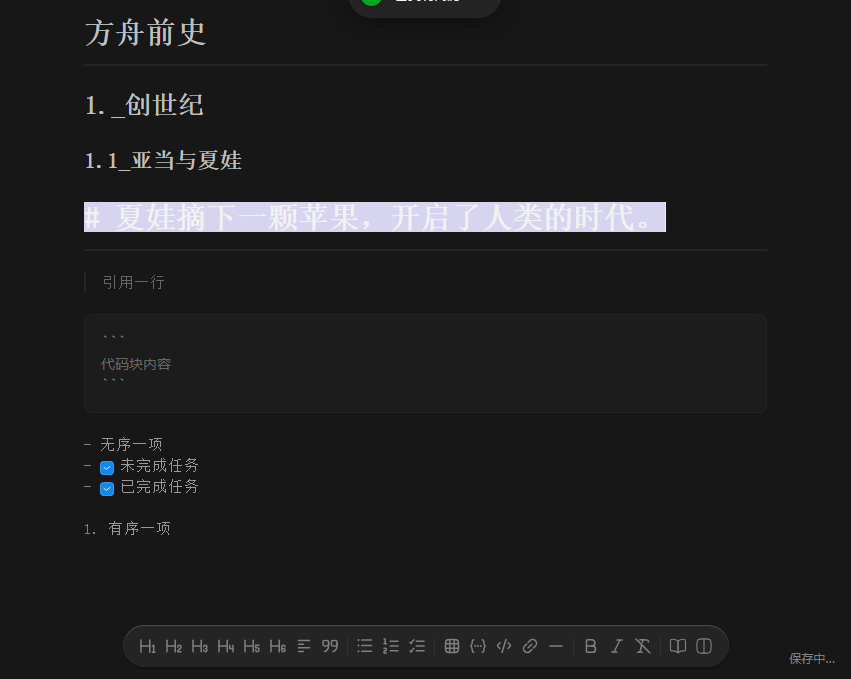
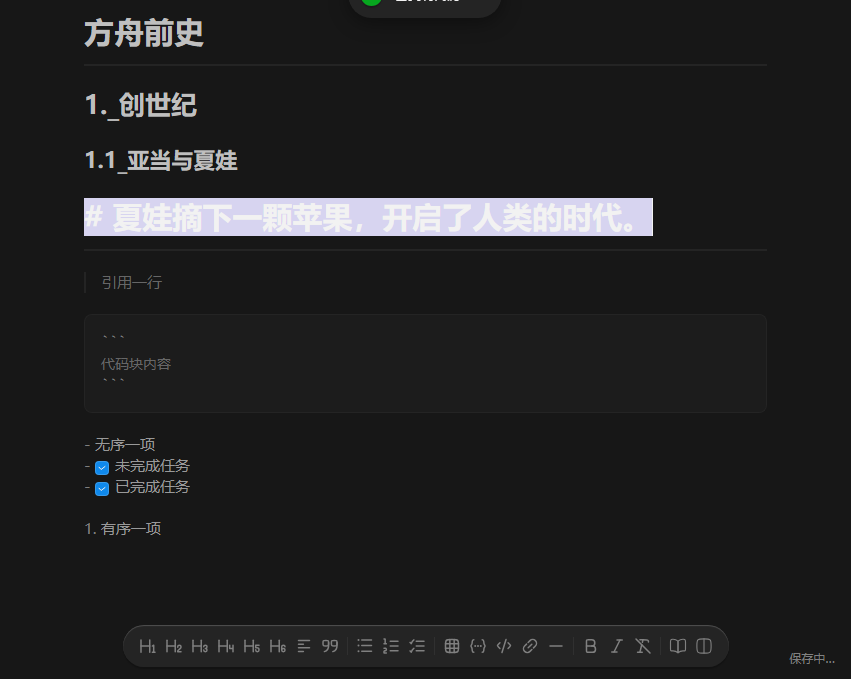
fix(文本): md 编辑器走查修复——文末抬高余量 + 宋体根治 + linkLock 墙钟化
①文末输入贴底：编辑态 .cm-content 底 padding 66 → calc(66px + 50vh)，末行可抬至视口中部（Obsidian
typewriter 同思路，预览态不动）；②编辑态中文宋体：CM6 base theme 对 .cm-content 直属 font-family:
monospace 截断继承链，字体声明挪 .cm-editor .cm-content 特异性 (0,2,0) 压回雅黑；③分屏联动长锁根治：
linkLock 计数 + 定时器解锁在 headless 节流环境冻死（解锁回调迟数秒），改墙钟截止时刻
（performance.now()+100，零回调依赖）——踩坑 109 扩记，速查 §69 补三条；探针三连修收敛判定
（轮询右栏滚到底的确定性效应），17 段连续两轮 PASS；typecheck 0 错

diff --git a/src/components/PreviewText.vue b/src/components/PreviewText.vue
@@ -237,11 +237,13 @@ function onCmKeydownGuard(e: KeyboardEvent): void {
 // 输入 / 光标移动 = typewriter 跟进：光标行对应渲染块滚到视口中间（用户「书写常在最下面，
 // 预览最后一行固定中间」），16ms 定时器合一（rAF 弃用——headless 按需出帧模式下帧生产停摆时回调永不达，
 // 2026-10-10 踩坑），精调期间 linkLock 锁反向回写不拽左栏。
-let linkLock = 0;
+// linkLock = 墙钟截止时刻（不用计数 + 定时器解锁——headless 定时器节流会让解锁回调迟数秒，
+// 锁长期卡死联动全瘫，同日实锤；墙钟到点自然失效，零回调依赖）
+let linkLockUntil = 0;
 let splitScrollRaf = 0; // setTimeout 句柄（历史名留 raf；16ms 合一节流）
 
 function linkScroll(src: HTMLElement, dst: HTMLElement): void {
-  if (linkLock > 0) return;
+  if (performance.now() < linkLockUntil) return;
   const sMax = src.scrollHeight - src.clientHeight;
   const dMax = dst.scrollHeight - dst.clientHeight;
   if (sMax <= 0 || dMax <= 0) return;
@@ -280,14 +282,10 @@ function scheduleSplitScroll(): void {
       else break;
     }
     if (!target) return;
-    linkLock++;
+    linkLockUntil = performance.now() + 100; // 墙钟锁 100ms：盖住本写入引发的异步 scroll 事件回环
     const bRect = body.getBoundingClientRect();
     const tRect = target.getBoundingClientRect();
     body.scrollTop += tRect.top - bRect.top - (bRect.height - tRect.height) / 2;
-    // scroll 事件异步派发窗口留 60ms 再解锁（反向回写不拽左栏；原双 rAF 解锁同因饿死弃用）
-    window.setTimeout(() => {
-      linkLock--;
-    }, 60);
   }, 16);
 }
 
@@ -505,7 +503,7 @@ watch(
    半宽沿用太奢）；分割条 = 1px 通用/三级线 + 左右 2px 命中扩边，hover / 拖拽 = 品牌色
    （全 app 拖拽线同色系口径：插入提示 / 框选 §22） */
 .md-edit-wrap.split .cm-host :deep(.cm-content) {
-  padding: var(--n-space-12) var(--n-space-24) 66px;
+  padding: var(--n-space-12) var(--n-space-24) calc(66px + 50vh);
 }
 .md-split-bar {
   flex: none;

diff --git a/src/styles/cm-md.css b/src/styles/cm-md.css
@@ -5,15 +5,19 @@
    块距 = md 空行自然撑开（编辑器无渲染态 flex gap 12）；表格 / Setext 标题保源码态待另轮。
    色档 = 1.5（标题 75 / 正文 60 / 其他 40；标记回落亮色/三级），线 = 通用/三级。 */
 
-/* —— 基底：版心左右各 84（12+72，渲染态同口径）+ 底 66 让位悬浮栏（§18 遮挡补偿） —— */
+/* —— 基底：版心左右各 84（12+72，渲染态同口径）+ 底 66 让位悬浮栏（§18 遮挡补偿）
+   + 50vh 文末抬高余量（2026-10-10 用户定：写到文末眼睛不盯最底行——滚动余量放大半屏，
+   末行可抬至视口中部，Obsidian typewriter 同思路；预览态阅读不需要，仅编辑态供给）。
+   字体必须打在 .cm-content 上（(0,2,0) 压 CM6 base theme 的 .cm-content font-family: monospace——
+   打 .cm-editor 会被直属规则截断继承，中文落 monospace=宋体，2026-10-10 用户实机报修） —— */
 .cm-editor {
-  font-family: var(--n-font-family);
   font-size: var(--n-fs-md-body);
   line-height: var(--n-lh-md-body);
   color: var(--n-md-body);
 }
 .cm-editor .cm-content {
-  padding: var(--n-space-12) calc(var(--n-space-12) + var(--n-space-72)) 66px;
+  padding: var(--n-space-12) calc(var(--n-space-12) + var(--n-space-72)) calc(66px + 50vh);
+  font-family: var(--n-font-family);
   caret-color: var(--n-l1);
 }
 .cm-editor .cm-line {

diff --git a/tools/cdp-md-editor-probe.py b/tools/cdp-md-editor-probe.py
@@ -517,14 +517,20 @@ async def main():
             if not (0.25 <= o2n <= 0.75) or abs(o2n - 0.5) < 0.01:
                 fails.append(f"[O] 分割条拖动未改占比（{o2}）")
             # 滚动联动（单滚轮语义）：先填充 30 个独立段落撑出两侧滚动空间（桩文档 19 行不足以滚；
-            # 单换行会被 md 折叠成一段）——填充后光标归文档首行再等 1.2s 让 typewriter 定时器收敛
-            #（headless 定时器节流，迟到的「跟滚到光标行」会篡改联动断言现场），再左栏滚到 1/2 → 右栏按比例跟；右栏回 0 → 左栏跟回
+            # 单换行会被 md 折叠成一段）——填充后**轮询右栏滚到底确认跟滚定时器已跑完**
+            #（光标恒在文末 = 跟滚目标即底部，到底只有定时器能写、观测无歧义；归 0 轮询撞「本来就 0」、
+            # 稳定窗轮询撞「节流冻结超窗」两版假收敛均已实锤，2026-10-10 三连），再左栏滚到 1/2 → 右栏按比例跟；右栏回 0 → 左栏跟回
             await type_text("\n\n" + "填充滚动行\n\n" * 30)
-            await ev("""(() => {
-              const v = document.querySelector('.text-preview .cm-host').__cmView;
-              v.dispatch({ selection: { anchor: 0 } });
-            })()""")
-            await asyncio.sleep(1.2)
+            for _ in range(40):  # 最长 10s（headless 定时器节流 ~1s 粒度）
+                await asyncio.sleep(0.25)
+                settled = await ev("""(() => {
+                  const body = document.querySelector('.md-body.split-side');
+                  const max = body.scrollHeight - body.clientHeight;
+                  return max > 0 && body.scrollTop >= max - 2;
+                })()""")
+                if settled:
+                    break
+            await asyncio.sleep(0.3)  # 余量：linkLock 60ms 解锁落定
             await ev("""(() => {
               const sc = document.querySelector('.md-edit-wrap .cm-scroller');
               sc.scrollTop = (sc.scrollHeight - sc.clientHeight) / 2;
@@ -558,26 +564,30 @@ async def main():
                 fails.append(f"[O] 分屏右栏未实时渲染（{o3}，期望存在 RRR strong）")
             # typewriter 跟滚：光标移到第 49 行（填充块群中部，居中可达——文档头尾块受滚动钳制
             # 物理上居不了中）→ 右栏滚到对应块并固定视口中间（CM6 选区 dispatch → updateListener 自动触发跟滚；
-            # 16ms 定时器 + headless 后台定时器节流，收敛等待放宽 1.2s）
+            # 16ms 定时器 + headless 后台定时器节流窗口不定——轮询 centerOff 收敛代替固定 sleep）
             o3b0 = await ev("document.querySelector('.md-body.split-side').scrollTop")
             await ev("""(() => {
               const v = document.querySelector('.text-preview .cm-host').__cmView;
               const pos = v.state.doc.line(50).from + 1;
               v.dispatch({ selection: { anchor: pos } });
             })()""")
-            await asyncio.sleep(1.2)
-            o3b = await ev("""(() => {
-              const body = document.querySelector('.md-body.split-side');
-              const blocks = [...body.querySelectorAll('[data-line-start]')];
-              const v = document.querySelector('.text-preview .cm-host').__cmView;
-              const line = v.state.doc.lineAt(v.state.selection.main.head).number - 1;
-              let t = null;
-              for (const el of blocks) { if (Number(el.dataset.lineStart) <= line) t = el; else break; }
-              if (!t) return { scroll: body.scrollTop, hit: false };
-              const bR = body.getBoundingClientRect(), tR = t.getBoundingClientRect();
-              return { scroll: body.scrollTop, hit: true,
-                       centerOff: Math.abs(tR.top + tR.height / 2 - (bR.top + bR.height / 2)) };
-            })()""")
+            o3b = None
+            for _ in range(20):
+                await asyncio.sleep(0.1)
+                o3b = await ev("""(() => {
+                  const body = document.querySelector('.md-body.split-side');
+                  const blocks = [...body.querySelectorAll('[data-line-start]')];
+                  const v = document.querySelector('.text-preview .cm-host').__cmView;
+                  const line = v.state.doc.lineAt(v.state.selection.main.head).number - 1;
+                  let t = null;
+                  for (const el of blocks) { if (Number(el.dataset.lineStart) <= line) t = el; else break; }
+                  if (!t) return { scroll: body.scrollTop, hit: false };
+                  const bR = body.getBoundingClientRect(), tR = t.getBoundingClientRect();
+                  return { scroll: body.scrollTop, hit: true,
+                           centerOff: Math.abs(tR.top + tR.height / 2 - (bR.top + bR.height / 2)) };
+                })()""")
+                if o3b and o3b.get("hit") and o3b["centerOff"] <= 40:
+                    break
             print("[O3b typewriter]", json.dumps({"滚前": o3b0, **(o3b or {})}, ensure_ascii=False))
             if not o3b or not o3b["hit"]:
                 fails.append(f"[O] typewriter 未命中光标行块（{o3b}）")

diff --git a/docs/02_开发日志/2026-10/Index.md b/docs/02_开发日志/2026-10/Index.md
@@ -2,7 +2,7 @@
 
 > 本月 85 个任务文件（命名 `YYYY-MM-DD[_NN]_标题.md`）。总目录见 [Index](../../Index.md）。
 
-- **2026-10-10**：[01_md 编辑器 CM6 换代 · Live Preview（用户提「Obsidian 式所见所得是否可行」——路线 A 定案落地，PRD 04-04 条 6「不引入所见即所得」作废：编辑态 textarea → CodeMirror 6，光标外行内联渲染 / 光标行回落源码；撤销换 CM6 原生事务栈（mdHistory 删除）；装饰层 = lib/cmMd.ts + styles/cm-md.css 同稿 token；保存 / 19 工具栏动作 / 粘贴补全 / 滚动保活 / 分屏 typewriter 全平移；typecheck 0 错 + build 绿 + 探针 17 段全 PASS（新增 P 段装饰层验收）；踩坑 109 新立（headless rAF 停摆 → 合一改定时器）；待实机走查编辑态手感 / 色档微调另轮 / 表格与 Setext 待另轮；PRD 04-04、速查 §69 同步）](2026-10-10_01_md编辑器CM6换代LivePreview.md)
+- **2026-10-10**：[01_md 编辑器 CM6 换代 · Live Preview（用户提「Obsidian 式所见所得是否可行」——路线 A 定案落地，PRD 04-04 条 6「不引入所见即所得」作废：编辑态 textarea → CodeMirror 6，光标外行内联渲染 / 光标行回落源码；撤销换 CM6 原生事务栈（mdHistory 删除）；装饰层 = lib/cmMd.ts + styles/cm-md.css 同稿 token；保存 / 19 工具栏动作 / 粘贴补全 / 滚动保活 / 分屏 typewriter 全平移；typecheck 0 错 + build 绿 + 探针 17 段全 PASS（新增 P 段装饰层验收）；踩坑 109 新立（headless rAF 停摆 → 合一改定时器）；待实机走查编辑态手感 / 色档微调另轮 / 表格与 Setext 待另轮；PRD 04-04、速查 §69 同步）](2026-10-10_01_md编辑器CM6换代LivePreview.md) · [02_实机走查修复（两报一轮——文末输入贴底：编辑态底 padding 66 → 66+50vh 半屏滚动余量，末行可抬至视口中部；编辑态中文宋体：CM6 base theme `.cm-content` 直属 monospace 截断继承，字体声明挪 `.cm-editor .cm-content` 特异性压回雅黑；typecheck 0 错 + 主探针 17 段回归绿）](2026-10-10_02_md编辑器走查修复_文末抬高与宋体.md)
 
 - **2026-10-09**：[01_筛选业务一轮：后端筛选引擎（PRD 03 §2 留白「随筛选轮定」立项，与用户议定五步分走——① 后端引擎（本轮，纯后端零 UI）→ ② 前端状态 + FilterPop 弹窗壳 + 按钮呈现形态 + chip 类三维度 → ③ 文件夹树/比例/日期 → ④ 颜色/时长/大小 → ⑤ 菜单收尾；口径定案 = **维度内 OR、跨维度 AND、筛选 × 搜索 AND**（用户拍板 AskUserQuestion）；架构 = `SearchScope` 内嵌 `filters`（serde default 空，命令签名不变、前端旧调用与 MCP 零改动），query 空 + 有效筛选 = 纯筛选，筛选激活档案区不出，回收站同口径，位置级维度（文件夹/链接状态）逐 Placement 判定；十维度实现口径全落（颜色 RGB ≤64 近似 / 时长帧按 fps 换算 / `"seq"` 序列帧虚拟类别惰性探盘 / 比例方图 1.05 容差+自定义 1% / 日期六档+自定义年月日 / 链接状态四态 origin-linked-thumb-none / 属性精确等值）；599 → 612 测绿（+13）+ clippy 净（is_none_or 超 MSRV 1.80 换 map_or）；遗留待定随下轮问：按钮呈现形态 /「缩略图」链接态语义 / 文件夹含不含后代 /「档案」虚拟类别 / 弹窗交互细节；PRD 03 §2、接口 11 同步）](2026-10-09_01_筛选业务一轮_后端筛选引擎.md) · [02_筛选业务二轮：chip 类三维度弹窗与呈现形态（五步之 ② 端到端——呈现形态定稿（auto 模式定、待用户实机确认）：筛选钮 on 态 = 有生效条件 或 弹窗打开中 + v-tip 摘要，「标签」落地名 = 属性；search store per-panel filters + isActive 扩「有关键字 || 有生效筛选」= **纯筛选同进搜索态**，新 API 五件（filtersFor/activeFilterDims/filterSummaries/patchFilters/clearAllFilters）；新组件 FilterChipsPop（扩展名/链接共用，TagButton solid sm 贴稿，按稿无清除钮、限 4 行滚轮）+ FilterTagsPop（属性 350 两段式，清除 = 清空全部选中不清搜索输入）；FloatBarHost 点击制开合（再点同钮/点外/Esc/切视口/切出搜索态，Esc 分层）+ placePop 定位复用 + 数据源零后端新增（扩展名/属性词集前端算出，序列帧虚拟类别首项）；typecheck 0 错 + preview 陈列五 cell 浏览器目验贴稿；待实机走查开合手感/定位钳制/即时生效交叉/on 态 tip/纯筛选；速查 §68 新立、PRD 03 §2 同步；下一步 = ③ 文件夹树/比例/日期）](2026-10-09_02_筛选业务二轮_chip类三维度与弹窗.md) · [03_筛选业务三轮：列表类三维度（五步之 ③——文件夹口径后端修订（一轮直属 → **自身或后代**勾父圈整棵子树，预展开后代集 + 测试三代断言，遗留待定消化其一）；bars.css 列表族共享件（.fp-list/.fp-item/.fp-custom）；FilterFoldersPop 树形复选（扁平化 + TransitionGroup + expandAnim 150ms、双色文件夹图标随选中升亮 l2·l3→l1·l2、递归数量、未分类首项、搜索命中连祖先强制展开）+ FilterRatioPop/FilterDatePop（预设多选 + 尾行自定义行 w:h 与年月日，focusout/Enter 提交半成品不生效，按稿无清除钮，添加/修改日期共用）；FloatBarHost 四窗接线 + summaries 补比例与两日期；typecheck 0 错 + preview 目验三弹窗贴稿 + cargo 33 绿；待实机走查树勾选含后代/搜索过滤/自定义提交/滚轮；速查 §68、PRD 03 §2、接口 11 同步；下一步 = ④ 颜色/时长/大小）](2026-10-09_03_筛选业务三轮_列表类三维度.md) · [04_筛选业务四轮：输入类三维度（五步之 ④，**10 个筛选维度弹窗全数点亮**——FilterColorPop 单选色条件（SV 盘 canvas 三层渐变自绘 + 选择环 + 点击/拖动取色 pointer capture，取色回环 hue 差 <1° 不重绘；HEX 行 TextInput 新扩 leading slot 色块、空态白底斜杠稿 prose；RGB/HSL 三框互切）+ FilterRangePop 时长/大小共用（单位文字并列切换 + expand 装饰、最小最大 focusout/Enter 提交、清除；时长 unit 随条件下发、大小恒字节 KB/MB/GB 纯显示档）；走查修复 = RGB 行三框 flex:1 挤溢切换钮改 50 宽固定；summaries 补时长与大小（10 维度摘要仅文件夹未出）；typecheck 0 错 + preview 四 cell 目验贴稿；待实机走查色盘手感/三色同步/清除空态/单位切换与换算；速查 §68、PRD 03 §2 同步；下一步 = ⑤ 菜单点亮与收尾）](2026-10-09_04_筛选业务四轮_输入类三维度.md) · [05_筛选业务五轮：菜单点亮与全链收尾（五步之 ⑤ 收官——菜单栏「查找 ▸ 筛选器」占位点亮：维度项与按钮组 10 项同序同名（旧占位 8 项改写对齐），点击 = requestFilterPop 通道（focusSeq 同模式三 ref + FloatBarSearch/FloatBar openFilters 透传）展开筛选组并打开对应弹窗（anchor 中心定位）；「重置所有筛选」= clearAllFilters（无生效禁用）；ws 视口整组禁用（与筛选钮不渲染同口径）；typecheck 0 错（主窗口链路交实机）；**筛选业务一日五轮闭环** = ① 引擎（612 测绿 +13）→ ② 状态+呈现形态+chip 类 → ③ 列表类（含后代）→ ④ 输入类（SV 色盘）→ ⑤ 菜单；待实机总走查；遗留待定：「缩略图」链接态语义 /「档案」虚拟类别 / 文件夹摘要 tip；速查 §68、PRD 03 §2 同步）](2026-10-09_05_筛选业务五轮_菜单点亮与收尾.md) · [06_筛选弹窗走查修复：属性竖排根治 + 自定义反选（用户实机四连问一轮修——①属性 chips 竖排：bars.css 列表族 .fp-list（column）与属性弹窗 scoped 同名撞车穿透（踩坑 108 新立：特异性逐属性竞争、scoped 未声明属性不免疫，preview 横排正常实机竖排），改名 .fp-taglist 显式 row 断根；②比例/日期自定义反选：对勾改可点钮 .fp-uncheck（取消自定义并清框，生效显形/未生效隐形，预设勾选保留）；③色相疑问答用户：稿无色相条现状只能输入改，提议补 226×12 色相条待拍板；typecheck 0 错 + preview 目验（属性横排恢复、比例对勾点击实证取消）；待实机复验横排/对勾手感/色相处置；速查 §68、PRD 03 §2、踩坑 108 同步）](2026-10-09_06_筛选弹窗走查修复_属性竖排与自定义反选.md) · [07_筛选弹窗走查二轮：色相条 + 窄 anchor 防守（用户实机两连报——①色相条拍板补件：226×12 彩虹渐变 CSS 直画 + 指示环 + 点击/拖动换色相（有条件色保持饱和明度重合成、无色仅换盘底；弹窗高 339→363 稿差标注）；②「清除跑到容器外」双保险（preview 未复现疑似 HMR 混合态待刷新坐实）：定宽弹窗 min-width = 稿宽（颜色 250/属性 350/文件夹 350，.fbh-pop max-width 压窄语境）+ 弹窗内输入框 .fp-root .ti-root min-width: 0（shrink 卡死顶出右端件防守）+ preview 常驻窄压制 cell；typecheck 0 错 + 目验（色相条与指示环就位、窄压制不压坏）；待实机复验色相条手感/清除归位/空态仅换盘底；速查 §68、PRD 03 §2 同步）](2026-10-09_07_筛选弹窗走查二轮_色相条与窄anchor防守.md) · [08_免安装包重打（含当日全量：筛选五轮全链 + 走查两轮，末轮 ec8e0de4——build --no-bundle 1m49s 一把过 + pack-portable 组装 408MB / zip 171MB；冒烟 = 启动日志干净 + MCP initialize 握手应答（端点 /mcp，首跑 curl 根路径误判收尸一次二起复验过）+ taskkill 收净无残留）](2026-10-09_08_免安装包重打.md)
 

diff --git a/docs/06_UI重构/规范/口径速查/69_md编辑器CM6换代LivePreview（2026-10-10；推翻不引入所见即所得口径）.md b/docs/06_UI重构/规范/口径速查/69_md编辑器CM6换代LivePreview（2026-10-10；推翻不引入所见即所得口径）.md
@@ -7,5 +7,6 @@
 - **退出键上浮截停**：CM6 键图不 stopPropagation——Esc / Ctrl+Enter 在 contentDOM 处理退出后冒泡到 `.cm-host` 时拦停（`@keydown` guard），否则 Esc 连带触发面板级 / 全局监听关掉整个预览（探针 F 实锤：编辑器退了、预览也没了）。Ctrl+E 不拦（全局 isEditableTarget 对 contenteditable 本就让位）。
 - **探针适配口径**（`tools/cdp-md-editor-probe.py`，17 段）：CM6 实例经宿主钩子 `.cm-host.__cmView` 拿（CDP 语境 import 不到 EditorView 类）；选区 / 键入 = `view.dispatch`（updateListener 自动同步 draft）；快捷键 = 合成 keydown 派发 `.cm-content`；滚动联动断言对 `.cm-scroller`。新增 P 段 = Live Preview 装饰层验收（光标外 H1 隐标记 / 光标行回落 / 任务框与代码块行装饰）。
 - **分屏 / 保活平移**：typewriter 光标行 = `view.state.doc.lineAt(selection.main.head).number - 1`（同 data-line-start 0 起口径）；滚动保活「editor」键取元改 cmScrollEl（md）/ editorRef（txt）分流；分屏右栏复选框 toggle 经 `watch(draft) → mdEditor.setDoc` 回灌（整文替换 + 光标钳位，setDoc 自守恒等不循环）。
-- **typewriter 合一计时器化（2026-10-10 踩坑）**：headless Chromium 按需出帧模式下，空视觉损伤窗口期 **rAF 回调会整段停摆**——旧 rAF 合一守卫 id 永锁、typewriter 死滚动（探针 O 段实锤，新调度也饿死）；合一与 linkLock 解锁一律改 `setTimeout`（16ms ≈ 一帧 / 解锁 60ms），取消-重排保「连续键入后者赢」。**教训：凡「等一帧再算」的工具代码，探针语境一律定时器，不用 rAF。**
+- **typewriter 合一计时器化（2026-10-10 踩坑 109）**：headless Chromium 按需出帧模式下，空视觉损伤窗口期 **rAF 回调会整段停摆**——旧 rAF 合一守卫 id 永锁、typewriter 死滚动（探针 O 段实锤，新调度也饿死）；合一改 `setTimeout` 16ms（取消-重排保「连续键入后者赢」）。**linkLock 进一步改墙钟截止时刻**（`performance.now() + 100`）——计数 + 定时器解锁在节流环境同样冻死（解锁回调迟到数秒，联动长锁全瘫），墙钟到点自然失效零回调依赖。**教训：凡「等一帧再算 / 过会儿解锁」的工具代码，探针语境一律定时器 / 墙钟，不用 rAF / 回调解锁。**
+- **走查修订（2026-10-10 用户实机两报）**：① **文末抬高余量**——编辑态 `.cm-content` 底 padding 66 → `calc(66px + 50vh)`（悬浮栏补偿 + 半屏滚动余量，末行可抬至视口中部，Obsidian typewriter 同思路；预览态不动）；② **字体必须打在 `.cm-content`**——CM6 base theme 对 `.cm-content` 直属设 `font-family: monospace`，打 `.cm-editor` 会被截断继承、中文落宋体；`.cm-editor .cm-content`（0,2,0）压（0,1,0）。
 - **待办 / 另轮**：颜色档微调（用户：现色淡、可读性不够，可能需新 token——另轮讨论）；表格 Live Preview 渲染；Setext 标题；代码块复制钮在编辑态不挂（源码可直接选中复制，预览态有钮）；引用块首末行 4px 纵向 padding 未做（稿 4/0/4/16，行装饰逐行供给不了纵向呼吸，待评估）。

diff --git a/docs/02_开发日志/2026-10/2026-10-10_02_md编辑器走查修复_文末抬高与宋体.md b/docs/02_开发日志/2026-10/2026-10-10_02_md编辑器走查修复_文末抬高与宋体.md
@@ -1,0 +1,8 @@
+# 2026-10-10_02 md 编辑器 Live Preview 走查修复（文末抬高余量 + 宋体修复）
+
+用户实机走查 _01 两报一轮修：
+
+1. **文末输入贴底**：文档写到底部后滚动条到底，输入位置恒贴视口最下缘，眼睛长盯底部累。修复 = 编辑态 `.cm-content` 底部 padding 66（悬浮栏遮挡补偿）→ `calc(66px + 50vh)`——滚动余量放大半屏，末行可抬至视口中部（Obsidian typewriter 同思路）；预览态阅读不需要不动；探针实测末行底缘可达视口 245/713 处。分屏左栏同口径。
+2. **编辑态中文宋体**：根因 = CM6 base theme 对 `.cm-content` 直属设 `font-family: monospace`，我在 `.cm-editor` 上设的字体被直属规则截断继承链，中文落 monospace = 宋体。修复 = 字体声明挪到 `.cm-editor .cm-content`（特异性 (0,2,0) 压 (0,1,0)）；探针读 computed 链实证全链雅黑，代码 / 行内代码仍走 `--n-font-mono` 不变。
+
+typecheck 0 错 + 主探针 17 段回归全 PASS（含 O 联动段三连修：跟滚定时器收敛轮询改「右栏滚到底」确定性效应判定 + **linkLock 计数改墙钟截止**——定时器解锁在节流环境冻死致联动长锁，墙钟零回调依赖）；口径速查 §69 补三条。**待实机复验：文末抬高手感（50vh 档位不合适报方向即调）/ 字体观感 / 分屏联动手感**。

diff --git a/docs/03_项目进度/当前状态/2026-10/Index.md b/docs/03_项目进度/当前状态/2026-10/Index.md
@@ -5,6 +5,7 @@
 | 文件 | 日期 | 标题 |
 | --- | --- | --- |
 | [2026-10-10_01_md编辑器CM6换代LivePreview](2026-10-10_01_md编辑器CM6换代LivePreview.md) | 2026-10-10 | md 编辑器 CM6 换代 · Live Preview（PRD「不引入所见即所得」作废；CM6 内核 + 装饰层 + 原生撤销；探针 17 段绿；踩坑 109） |
+| [2026-10-10_02_md编辑器走查修复_文末抬高与宋体](2026-10-10_02_md编辑器走查修复_文末抬高与宋体.md) | 2026-10-10 | md 编辑器走查修复（文末底 padding +50vh 抬末行至视口中部；CM6 base theme .cm-content monospace 截断继承致宋体，字体挪 .cm-editor .cm-content 压回雅黑） |
 | [2026-10-08_04_剪贴板导入内容级重试](2026-10-08_04_剪贴板导入内容级重试.md) | 2026-10-08 | 剪贴板导入内容级重试（外部程序异步提交剪贴板 × 单次读竞态 = 粘贴「空值」；三路皆空 50ms×10 重读、有内容即停；599 测绿；踩坑 107） |
 | [2026-10-07_02_免安装包重打](2026-10-07_02_免安装包重打.md) | 2026-10-07 | 免安装包重打（含 ws 搜索全链；pack-portable.py 收口组装） |
 | [2026-10-07_01_工作空间搜索映射修复](2026-10-07_01_工作空间搜索映射修复.md) | 2026-10-07 | 子目录视口搜索 rel 丢前缀修复（查询腿 anchor/base 分角色）+ 索引滞后幽灵命中剔除 |

diff --git a/docs/03_项目进度/当前状态/2026-10/2026-10-10_02_md编辑器走查修复_文末抬高与宋体.md b/docs/03_项目进度/当前状态/2026-10/2026-10-10_02_md编辑器走查修复_文末抬高与宋体.md
@@ -1,0 +1,3 @@
+# 当前状态：md 编辑器走查修复 · 文末抬高与宋体（2026-10-10）
+
+_01 实机走查两报一轮修：①**文末抬高余量**——编辑态 `.cm-content` 底 padding 66 → `calc(66px + 50vh)`，末行可抬至视口中部（Obsidian typewriter 同思路，预览态不动）；②**编辑态中文宋体**——根因 = CM6 base theme 对 `.cm-content` 直属 `font-family: monospace` 截断继承链，字体声明挪 `.cm-editor .cm-content`（特异性 (0,2,0) 压 (0,1,0)），探针 computed 链实证全链雅黑。typecheck 0 错 + 主探针 17 段回归全 PASS；速查 §69 补两条。**待实机复验：文末抬高手感（50vh 档位不合适报方向即调）/ 字体观感**。详见 [开发日志 2026-10-10_02](../../02_开发日志/2026-10/2026-10-10_02_md编辑器走查修复_文末抬高与宋体.md)。
